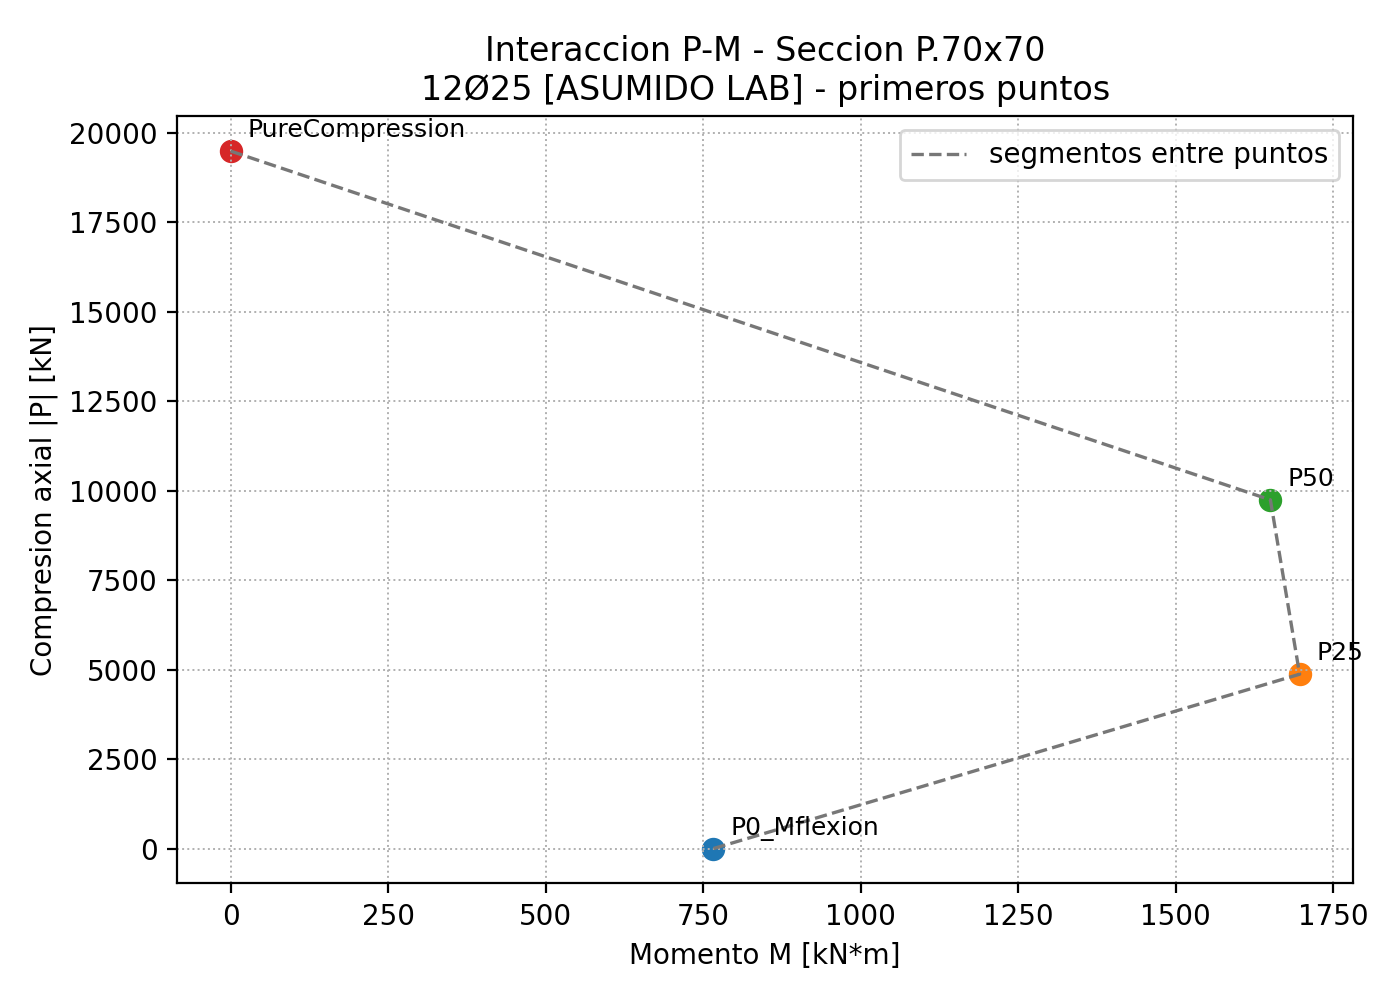
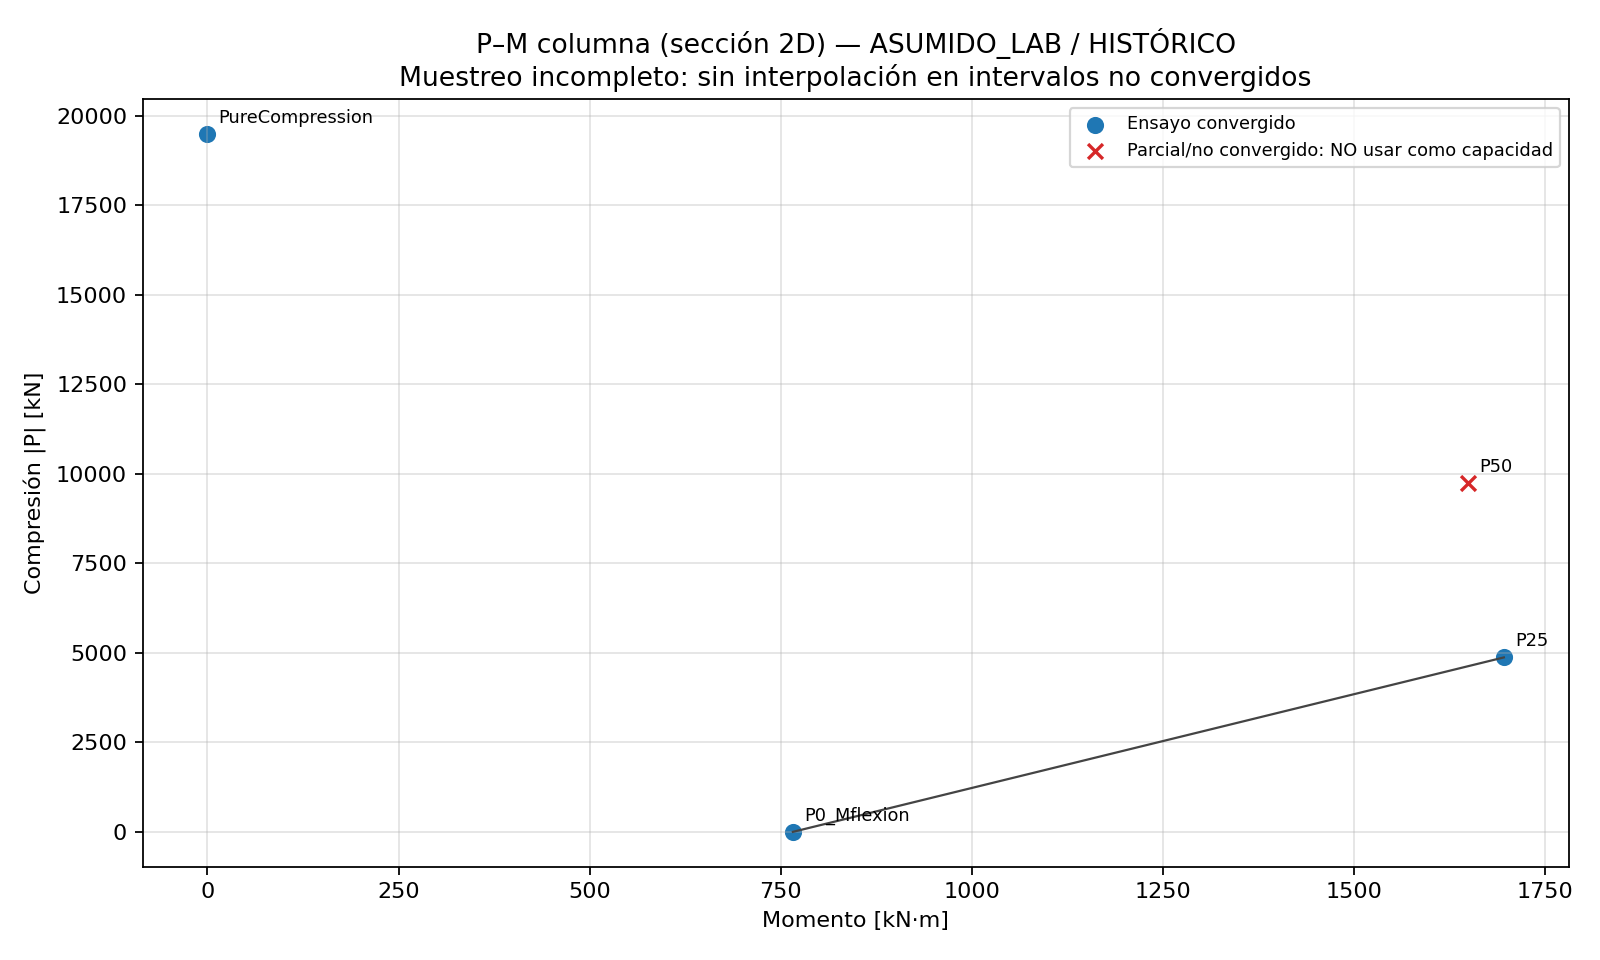
Week7: verify clean-clone reproduction and show incomplete Fiber intervals honestly

diff --git a/entregas/P1L7/reproduce_fiber_studies.py b/entregas/P1L7/reproduce_fiber_studies.py
@@ -4,6 +4,8 @@ Run: python -B entregas/P1L7/reproduce_fiber_studies.py
 Partial/nonconverged points are retained and flagged; they are not design data.
 """
 import importlib
+import argparse
+import csv
 import json
 import math
 import sys
@@ -13,7 +15,48 @@ ROOT = Path(__file__).resolve().parents[2]
 OUT = Path(__file__).resolve().parent / "fiber_studies"
 
 
+def plot_partial_pm(rows, output, title, moment_key, status_key="valid"):
+    """Never bridge a nonconverged axial interval or imply a complete envelope."""
+    import matplotlib
+    matplotlib.use("Agg")
+    import matplotlib.pyplot as plt
+    rows = sorted(rows, key=lambda r: float(r["compression_magnitude_kN"]))
+    valid = [(str(r.get("valid")).lower() == "true") if status_key == "valid"
+             else r["status"] in ("PASS", "AXIAL_ONLY_PASS") for r in rows]
+    fig, ax = plt.subplots(figsize=(10, 6))
+    previous = None
+    labelled = set()
+    for row, okay in zip(rows, valid):
+        x, y = float(row[moment_key]), float(row["compression_magnitude_kN"])
+        label = "Ensayo convergido" if okay else "Parcial/no convergido: NO usar como capacidad"
+        ax.scatter(x, y, color="#1f77b4" if okay else "#d62728", marker="o" if okay else "x",
+                   label=label if label not in labelled else None, s=45)
+        labelled.add(label)
+        ax.annotate(row.get("point_id", row.get("case", "")), (x, y), xytext=(5, 5), textcoords="offset points", fontsize=8)
+        if okay and previous is not None:
+            ax.plot([previous[0], x], [previous[1], y], color="#444444", linewidth=1)
+        previous = (x, y) if okay else None
+    ax.set(xlabel="Momento [kN·m]", ylabel="Compresión |P| [kN]",
+           title=title + " — ASUMIDO_LAB / HISTÓRICO\nMuestreo incompleto: sin interpolación en intervalos no convergidos")
+    ax.grid(alpha=.35)
+    ax.legend(fontsize=8)
+    fig.tight_layout()
+    fig.savefig(output, dpi=160)
+    plt.close(fig)
+
+
 def main():
+    parser = argparse.ArgumentParser()
+    parser.add_argument("--plots-only", action="store_true", help="Redraw recorded CSV without rerunning or changing OpenSees data")
+    if parser.parse_args().plots_only:
+        for name, file, moment in [("column", "pm_interaction", "max_moment_kNm"), ("wall", "wall_pm_interaction", "M_kNm")]:
+            with (OUT / name / (file + ".csv")).open(encoding="utf-8", newline="") as stream:
+                recorded = list(csv.DictReader(stream))
+            title = "P–M muro (Mz)" if name == "wall" else "P–M columna (sección 2D)"
+            plot_partial_pm(recorded, OUT / name / (file + ".png"), title, moment,
+                            "status" if name == "column" else "valid")
+        print("PASS: plots redrawn from recorded CSV; no invalid interval bridged; no result changed")
+        return
     sys.path.insert(0, str(ROOT / "entregas/P1L3/capacidad_ha/opensees"))
     section = importlib.import_module("section_model")
     mc = importlib.import_module("moment_curvature")
@@ -37,7 +80,7 @@ def main():
     points = pm.run_pm_points(config, axial_meta["p0_kN"])
     pm.write_axial_csv(axial)
     pm.write_pm_csv(points)
-    pm.plot_pm_interaction(config, points)
+    plot_partial_pm(points, pm.PM_FIGURE_PATH, "P–M columna (sección 2D)", "max_moment_kNm", "status")
     sys.path.insert(0, str(ROOT / "entregas/P1L4/demanda_capacidad/opensees"))
     wall_section = importlib.import_module("wall_section_model")
     wall_pm = importlib.import_module("wall_pm_interaction")
@@ -50,7 +93,7 @@ def main():
     assert wall_axial_meta["failed_step"] is None
     wall_points = wall_pm.run_pm_interaction(wall_config, wall_axial_meta["p0_kN"])
     wall_pm.write_csv(wall_points)
-    wall_pm.plot_pm(wall_config, wall_points)
+    plot_partial_pm(wall_points, wall_pm.FIGURE_PATH, "P–M muro (Mz)", "M_kNm")
     summary = {"status":"PASS_WITH_EXPLICIT_INVALID_POINTS", "scope":"SEPARATE_FIBER_STUDIES_NOT_CURRENT_CAPACITY",
         "column_Mphi_steps":steps,"column_Mphi_complete":True,
         "column_PM_statuses":{r["case"]:r["status"] for r in points},

diff --git a/entregas/P1L7/verify_clean_clone.py b/entregas/P1L7/verify_clean_clone.py
@@ -1,0 +1,73 @@
+"""Verify README regeneration in an isolated clone, without changing the live viewer.
+
+Create a clone and its .venv-p1l5 first. This script records commands actually run,
+exit codes, semantic input signatures and numerical agreement. It does not assert
+Unity or standalone execution merely because the JSON tests pass.
+"""
+from __future__ import annotations
+
+import argparse
+import json
+import subprocess
+from datetime import datetime, timezone
+from pathlib import Path
+
+ROOT = Path(__file__).resolve().parents[2]
+OUT = Path(__file__).resolve().parent
+
+
+def read(path):
+    return json.loads(path.read_text(encoding="utf-8-sig"))
+
+
+def main():
+    parser = argparse.ArgumentParser()
+    parser.add_argument("--clone-root", required=True, type=Path)
+    args = parser.parse_args()
+    clone = args.clone_root.resolve()
+    if clone == ROOT or not (clone / ".git").is_dir():
+        raise ValueError("Expected a separate Git clone, not the live project")
+    python = clone / ".venv-p1l5/Scripts/python.exe"
+    if not python.is_file():
+        raise ValueError("Install pinned requirements in the clone first")
+    commit = subprocess.check_output(["git", "rev-parse", "HEAD"], cwd=clone, text=True).strip()
+    commands = [
+        ["powershell", "-NoProfile", "-ExecutionPolicy", "Bypass", "-File", "entregas/P1L7/reanalyse_current.ps1"],
+        [str(python), "-B", "entregas/P1L7/test_week7_loads.py"],
+        [str(python), "-B", "entregas/P1L6/transform/test_ar_transform.py"],
+        [str(python), "-B", "tools/test_project_entrypoint.py"],
+        [str(python), "-B", "entregas/P1L6/slab_reconstruction/validate_slab_cleanup.py"],
+    ]
+    runs = []
+    for index, command in enumerate(commands):
+        run = subprocess.run(command, cwd=clone, capture_output=True, text=True, encoding="utf-8", errors="replace")
+        log = OUT / f"clean_clone_{index}.log"
+        log.write_text(run.stdout + run.stderr, encoding="utf-8")
+        runs.append({"command": ["python" if arg == str(python) else arg for arg in command],
+                     "exit_code": run.returncode, "log": log.name})
+        print(f"{index + 1}/{len(commands)} exit={run.returncode}")
+        if run.returncode:
+            break
+    central = Path("entregas/P1L5/modelo_central")
+    result = Path("entregas/P1L5/analysis/results/current/manifest.json")
+    original, restored = read(ROOT / result), read(clone / result)
+    checks = {
+        "all_commands_completed": len(runs) == len(commands) and all(r["exit_code"] == 0 for r in runs),
+        "same_logical_settings": read(ROOT / central / "analysis_settings.json") == read(clone / central / "analysis_settings.json"),
+        "same_case_response_and_equilibrium": original["cases"] == restored["cases"],
+        "same_load_contract": original["load_contract"] == restored["load_contract"],
+        "same_canonical_runtime": original["runtime"] == restored["runtime"],
+        "clone_analysis_pass": restored["status"] == "PASS",
+    }
+    report = {"status": "PASS" if all(checks.values()) else "FAIL", "generated_utc": datetime.now(timezone.utc).isoformat(),
+              "tested_commit": commit, "clone_method": "LOCAL_CLONE_OF_COMMIT_PUSHED_TO_GITHUB",
+              "commands": runs, "checks": checks, "cases": restored["cases"],
+              "scope": "CLEAN_CHECKOUT_AND_NEW_PYTHON_ENVIRONMENT; NOT_A_UNITY_OR_STANDALONE_TEST",
+              "note": "Byte hashes may differ with Git line-ending conversion. Configuration contents and numerical outputs are compared semantically."}
+    (OUT / "CLEAN_CLONE_QA.json").write_text(json.dumps(report, indent=2) + "\n", encoding="utf-8")
+    print(json.dumps(report, indent=2))
+    return 0 if report["status"] == "PASS" else 1
+
+
+if __name__ == "__main__":
+    raise SystemExit(main())

diff --git a/entregas/P1L7/WEEK7_MODEL_CLOSURE.md b/entregas/P1L7/WEEK7_MODEL_CLOSURE.md
@@ -1,6 +1,8 @@
 # Semana 7 — cierre técnico CURRENT
 
-Estado de este checkpoint: **IN PROGRESS**. No es un tag/release evaluable final.
+Estado de este checkpoint: **WEEK 7 MODEL READY WITH EXPLICIT BLOCKERS**.
+Pipeline académico CURRENT reproducido y Viewer validado; no constituye un congelamiento
+estructural definitivo ni autoriza tag/release/build final mientras persistan los bloques indicados.
 Rama `codex/week7-model-closure`, base `3cc21d613377f295880974a62fe98c48c9eea50f`.
 
 ## A. Estado inicial
@@ -53,7 +55,8 @@ Negativos/NaN/Inf rechazados. Para Q, qQ doble con λQ=1 equivale a baseline
 con λQ=2; **EX/EY no son equivalentes**, porque la masa educativa depende de Q.
 Demostración Editor: guardar 1,334 → STALE → reanálisis → recarga CURRENT verificada.
 Restauración desde Unity demostrada; baseline final exacto 0,667 regenerado
-y QA de hashes/contrato aprobado. La demo integral final sigue pendiente.
+y QA de hashes/contrato aprobado. La demo integral del Editor pasó posteriormente
+(83 checks visuales, 29 de Q, 44 de losas, más checks de inicio/resultados).
 
 ## D. Peso sísmico
 
@@ -124,6 +127,9 @@ Muro: estudio histórico E2-P1-M-019 (no es un miembro activo CURRENT),
 8/14 puntos válidos; **6 no convergidos** excluidos como capacidad fiable.
 `fiber_studies/QA.json` registra ambos límites. CURRENT sigue siendo screening
 académico con armaduras asumidas, no Fiber ni diseño certificado.
+Los gráficos nuevos no conectan puntos válidos a través de intervalos no convergidos:
+la compresión pura permanece como punto aislado cuando faltan los ensayos intermedios.
+Las cruces son diagnósticas, no capacidad utilizable. No se modificaron los gráficos históricos.
 
 ## H. Versiones
 
@@ -136,9 +142,14 @@ El entorno antiguo no se actualizó; cada tag histórico conserva sus inputs.
 ## I. Reproducibilidad
 
 Comandos relativos exactos en [README](../../README.md).
-Entorno nuevo `.venv-week7-check` creado, instalación desde requirements completada;
-Q/superposición real y 20 pruebas de transformación pasaron en él.
-No equivale todavía a un smoke test de descarga/standalone ni licencia portátil de Unity.
+Entorno nuevo `.venv-week7-check` creado y probado. Además, se creó un **clone local limpio**
+del commit publicado `ffed146d54c8c0c0b4cf014968f01a551f6530a2`, con otro entorno Python
+instalado exclusivamente desde requirements. Regeneración completa, Q/superposición real,
+20 checks de transformación, 10 tests de entrada y 24 checks de losas pasaron.
+[CLEAN_CLONE_QA.json](CLEAN_CLONE_QA.json) registra comandos/exit codes y comparación
+semántica exacta de configuración, casos, equilibrio y contrato de cargas contra el baseline.
+Fue una copia Git local del mismo commit publicado, **no una descarga nueva de GitHub**.
+No equivale a prueba standalone ni a disponibilidad de licencia Unity en otro PC.
 
 ## J. Desktop build
 
@@ -160,8 +171,8 @@ No se declara un build PASS sin ejecutarlo fuera del Editor y comprobarlo.
 | P–M columna / muro completo | REVIEW_REQUIRED | 1 caso parcial / 6 puntos no convergidos |
 | AR crosswalk / longitudes / demanda | PASS | AR_DATASET_VALIDATION; 712 / 669 FE |
 | Unity compile / Play / qQ reanálisis | PASS_WITH_NOTE | compilación y Play reales; 83 checks UX, 29 Q, 44 losas y regresión PASS; flujo doble/restauración demostrado |
-| Entorno nuevo | PASS_WITH_NOTE | instalado y tests físicos/transformación; clone completo pendiente |
-| Documentación / enlaces | IN_PROGRESS | completar evidencias finales antes de release |
+| Entorno nuevo / clone limpio | PASS | regeneración, cinco comandos exit 0; misma respuesta y equilibrio; CLEAN_CLONE_QA |
+| Documentación / enlaces | PASS_WITH_NOTE | comandos y límites actualizados; no release final |
 | Desktop externo | NOT_TESTED | requiere build final + smoke test |
 
 ## L. Limitaciones reales restantes
@@ -172,6 +183,20 @@ No se declara un build PASS sin ejecutarlo fuera del Editor y comprobarlo.
 - Política sísmica educativa pendiente de contraste con instrucción específica del profesor.
 - Puntos Fiber no convergidos no sirven para extrapolar una envolvente completa.
 - La compilación final y demo integrada del Editor pasaron; falta prueba standalone externo, condicionado al cierre estructural.
+
+### Bloques que impiden el congelamiento definitivo
+
+| Bloque | Fuente/responsabilidad | Qué falta |
+| --- | --- | --- |
+| Certificación física de losas/huecos/espesores | Planos y detalle primario del edificio | Confirmar contornos y espesores; QA numérico no certifica el dibujo ni el fallback 0,15 m |
+| Tres PM puntuales excluidas | L700 P2/P3; equipo con fuente primaria legible | Punto real y receptor inequívoco; no sustituir coordenada de texto por punto de aplicación |
+| Política sísmica del curso no verificada | Profesor/pauta específica | Confirmar si 20% y G+0,5Q son los parámetros de entrega; hoy son hipótesis educativas explícitas |
+| P–M Fiber incompleta | Estudios separados OpenSees | Resolver/justificar convergencia: columna P50 parcial y seis puntos del muro; no cerrar la envolvente interpolando huecos |
+| Build final / ejecución fuera del Editor | Etapa de release del equipo | Pendiente, no PASS; se difiere por la condición del usuario de cerrar primero los bloques estructurales |
+
+El Viewer usa capacidades analíticas aproximadas y no incorpora estos estudios Fiber como
+capacidad real del edificio. Este checkpoint es útil y reproducible, pero no debe entregarse
+como si los puntos incompletos o las fuentes ausentes hubieran sido confirmados.
 
 ### Comprobación posterior a la restauración
 
@@ -192,3 +217,21 @@ integrar solo cambios compatibles de informe/configuración después de QA,
 y posteriormente merge no destructivo de esta rama hacia main **solo con autorización**.
 No tag/release nuevo todavía; `P1L4_FINAL`, entregas históricas y Luis intactos.
 Los hashes de cada checkpoint se comunicarán tras commit/push, no se inventa un hash autorreferente.
+
+Propuesta concreta, **no ejecutada**:
+
+1. Cerrar los bloques primarios/Fiber, reanálisis si cambia un input, QA y standalone externo.
+2. Revisar `p1l6/final-integration`: `800160e`, `3fceca2`, `ae9992f` son informes
+   de los compañeros. Incorporarlos conservando su autoría y sin hacerlos pasar por resultados Week7.
+3. `0e6b23b` contiene un guard de compilación Android y builder PC a estudiar,
+   pero también activa losas por defecto: **rechazar ese comportamiento**, incompatible con
+   losas OFF aprobado. No importar sus cambios de Viewer completos sobre la UI CURRENT.
+4. Integrar `codex/week7-model-closure` no destructivamente en main cuando el usuario lo apruebe.
+   En la comprobación previa al último checkpoint, `origin/main` era ancestro (0 exclusivos
+   main, 10 exclusivos Week7). Esto no garantiza ausencia de cambios remotos posteriores:
+   fetch y revisar conflictos inmediatamente antes de cualquier merge.
+5. Repetir QA tras integración; tag/release solamente con confirmación del usuario.
+
+Checkpoints de implementación: `6e2cf3d` (Q/sismo/AR) y `ffed146`
+(precisión qQ, compilación y Play/QA después de restauración). La evidencia de clone limpio
+registra exactamente `ffed146d54c8c0c0b4cf014968f01a551f6530a2`.

diff --git a/README.md b/README.md
@@ -59,6 +59,18 @@ Fiber separado, sin sobrescribir historia ni capacidad CURRENT:
 
 Outputs: `entregas/P1L7/fiber_studies`. Algunos puntos P-M no convergen:
 ver `QA.json`; no son capacidad certificada ni se usan para calibrar D/C.
+Los gráficos nuevos no interpolan intervalos no convergidos. Para volver a dibujar
+los CSV existentes sin repetir ensayos: añadir `--plots-only` al comando anterior.
+
+La regeneración también se comprobó en una copia Git limpia con un entorno nuevo;
+ver `entregas/P1L7/CLEAN_CLONE_QA.json`. Para repetir esa comprobación, tras preparar
+otra copia y su `.venv-p1l5`, desde el proyecto principal ejecutar:
+
+```powershell
+.\.venv-p1l5\Scripts\python.exe -B entregas/P1L7/verify_clean_clone.py --clone-root ../MCOC-grupo1-repro
+```
+
+Esto verifica Python/JSON, no sustituye Play ni la prueba del ejecutable final.
 Estado de cierre y límites: [WEEK7_MODEL_CLOSURE](entregas/P1L7/WEEK7_MODEL_CLOSURE.md).
 
 ## Qué abrir y qué editar

diff --git a/entregas/P1L2/STATUS.md b/entregas/P1L2/STATUS.md
@@ -8,6 +8,8 @@
 - Agregado G por piso corregido: 2,265720 MN permanentes antes omitidos del peso sísmico.
 - AR sincronizado: 712 sólidos, 54 muros faltantes añadidos, 0 IDs retirados.
 - Fiber separado de capacidad aproximada; puntos no convergidos explícitos.
+- qQ restaurado exactamente a 0,667; Unity compiló/Play PASS (83 UX, 29 Q, 44 losas).
+- Clone limpio y nuevo entorno regeneraron CURRENT con la misma respuesta; cierre con bloques explícitos, no release final.
 - Cierre y QA: [Semana 7](../P1L7/WEEK7_MODEL_CLOSURE.md). Build final todavía no aprobado.
 
 ## Exclusión lateral ED1-P1 y cargas visibles (2026-10-01)
